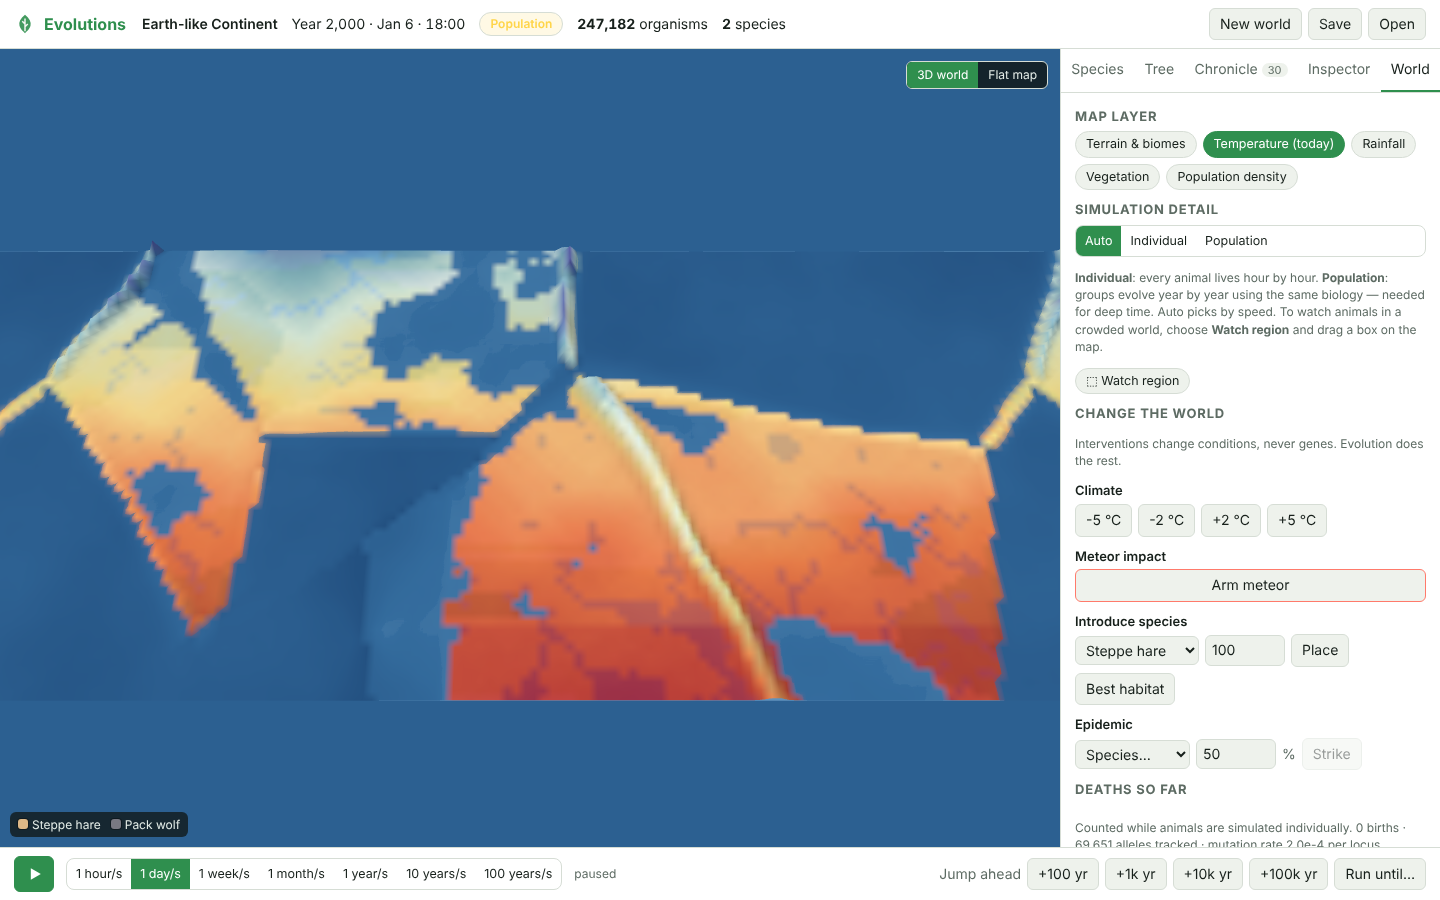
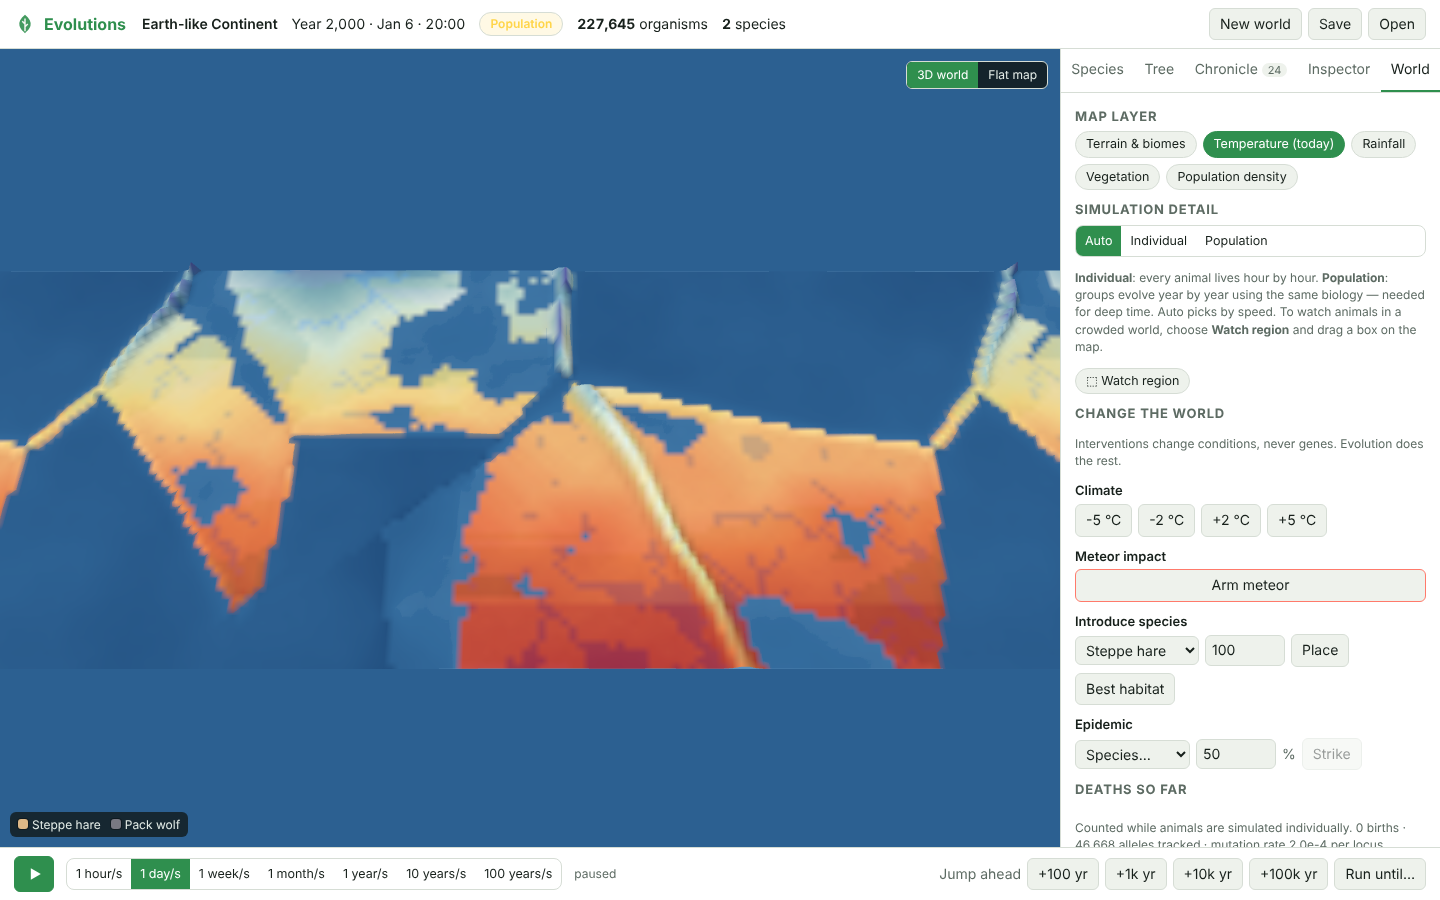
Frame the whole world on load and show detailed animals sooner
The opening camera now searches for the nearest distance at which all
four corners of the world are on screen, and reframes on resize until
the user moves the camera. Before, the east and west ends could fall
outside the view, so founders released near an edge were off screen
(this made the CI smoke test's inspect step fail for some seeds).

- Zooming out can always reach the framed distance.
- Detailed animal bodies from 16 px instead of 28 px.
- Smoke test reports an off-screen animal explicitly.
- Guide screenshots regenerated.

Changed region(s): [[0.0, 0.28, 0.75, 0.7778], [0.75, 0.9333, 0.9375, 0.9644], [0.4062, 0.0, 0.4375, 0.0311]]

diff --git a/app/web/src/render/world3d.ts b/app/web/src/render/world3d.ts
@@ -71,7 +71,7 @@ function simpleAnimalGeometry() {
 }
 
 /** Below this on-screen body length (px) animals use the simple geometry. */
-const DETAIL_PX = 28;
+const DETAIL_PX = 16;
 
 /** Hash an index to an angle so a herd does not all face the same way. */
 const yawOf = (i: number) => (((i * 2654435761) >>> 0) / 4294967296) * Math.PI * 2;
@@ -119,6 +119,10 @@ export class World3D {
   /** Camera x when animals and herds were last laid out (they sit on the nearest copy). */
   private layoutTx = NaN;
   private disposed = false;
+  /** Distance that shows the whole world; zooming out stops a little beyond it. */
+  private fitDistance = 100;
+  /** Until the user moves the camera, resizing reframes the whole world. */
+  private userMoved = false;
 
   constructor(canvas: HTMLCanvasElement) {
     this.renderer = new THREE.WebGLRenderer({ canvas, antialias: true, preserveDrawingBuffer: true });
@@ -399,14 +403,34 @@ export class World3D {
 
   /** Look at the whole world from the south. */
   fit() {
-    const aspect = this.camera.aspect || 1.6;
-    const half = Math.tan(((FOV / 2) * Math.PI) / 180);
-    const span = Math.max(this.h * 0.8, this.w / aspect) * 0.52;
     this.cam.tx = this.w / 2;
     this.cam.ty = this.h / 2;
     this.cam.yaw = 0;
     this.cam.pitch = (62 * Math.PI) / 180;
-    this.cam.distance = Math.max(4, span / half);
+    // The nearest distance at which all four corners of the world are on screen.
+    const corners = [
+      [0, 0],
+      [this.w, 0],
+      [0, this.h],
+      [this.w, this.h],
+    ].map(([x, z]) => new THREE.Vector3(x, 0, z));
+    const fits = (d: number) => {
+      this.cam.distance = d;
+      this.updateCamera();
+      return corners.every((c) => {
+        const v = c.clone().project(this.camera);
+        return Math.abs(v.x) <= 0.96 && Math.abs(v.y) <= 0.96 && v.z < 1;
+      });
+    };
+    let lo = 1;
+    let hi = Math.max(this.w, this.h) * 4;
+    for (let i = 0; i < 30; i++) {
+      const mid = (lo + hi) / 2;
+      if (fits(mid)) hi = mid;
+      else lo = mid;
+    }
+    this.cam.distance = this.fitDistance = Math.max(4, hi);
+    this.userMoved = false;
     this.requestRender();
   }
 
@@ -423,7 +447,8 @@ export class World3D {
 
   zoom(factor: number, toward: THREE.Vector3 | null) {
     const c = this.cam;
-    const maxDist = Math.max(this.w, this.h) * 1.6;
+    this.userMoved = true;
+    const maxDist = Math.max(Math.max(this.w, this.h) * 1.6, this.fitDistance * 1.3);
     const nd = Math.max(1.2, Math.min(maxDist, c.distance * factor));
     const f = 1 - nd / c.distance;
     if (toward) {
@@ -435,12 +460,14 @@ export class World3D {
   }
 
   pan(dx: number, dz: number) {
+    this.userMoved = true;
     this.cam.tx += dx;
     this.cam.ty += dz;
     return this.clampCamera();
   }
 
   rotate(dyaw: number, dpitch: number) {
+    this.userMoved = true;
     this.cam.yaw += dyaw;
     this.cam.pitch = Math.max(MIN_PITCH, Math.min(MAX_PITCH, this.cam.pitch + dpitch));
     this.requestRender();
@@ -516,6 +543,7 @@ export class World3D {
     if (cw === 0 || ch === 0) return;
     this.renderer.setSize(cw, ch, false);
     this.camera.aspect = cw / ch;
+    if (!this.userMoved) this.fit();
     this.lastSize = -1;
     this.requestRender();
   }

diff --git a/docs/3D_WORLD_SYSTEM_DESIGN.md b/docs/3D_WORLD_SYSTEM_DESIGN.md
@@ -65,7 +65,7 @@ Rendering is on demand: nothing redraws while the simulation is paused and the c
 | Terrain (×3 copies) | `Mesh` sharing one indexed `BufferGeometry` + `MeshLambertMaterial` with the layer `CanvasTexture` | Copies at x = −w, 0, +w give a seamless east–west wrap. One vertex per tile centre plus a wrap column. |
 | Sea | `Mesh` (plane), translucent, no depth write | At y = −0.02 over three world widths. |
 | Open sea | Two `Mesh` strips (children of the sea) | North and south of the world, at the mean ocean depth and colour, so the edges disappear. |
-| Individuals | `InstancedMesh` (detailed or simple body) | One instance per animal; colour per species; crouched when resting; yaw hashed from index. Geometry switches to the 36-triangle body when a figure is under 28 px long. |
+| Individuals | `InstancedMesh` (detailed or simple body) | One instance per animal; colour per species; crouched when resting; yaw hashed from index. Geometry switches to the 36-triangle body when a figure is under 16 px long. |
 | Herds | `InstancedMesh` (simple body, opacity 0.8) | 1–4 figures per occupied tile, in the dominant species' colour; skipped inside the watched region. |
 | Density columns | Same mesh slot, unit box | Height and heat-ramp colour from log density. Replaces herds on the density layer. |
 | Watched region | `LineSegments` (box edges), white | |
@@ -89,7 +89,7 @@ Animals, herds and the selection ring stand at `heightAt`, so they sit on the te
 ```text
 unitsPerPixel = 2 · distance · tan(FOV/2) / canvasHeight
 bodySize      = clamp(9 · unitsPerPixel, 0.12, 4)    (≥ ~9 px on screen)
-detailed body when bodySize / unitsPerPixel ≥ 28 px, else simple body
+detailed body when bodySize / unitsPerPixel ≥ 16 px, else simple body
 herds always use the simple body
 ```
 

diff --git a/docs/3D_WORLD_PLAN.md b/docs/3D_WORLD_PLAN.md
@@ -55,7 +55,7 @@ The engine does not change. The 3D world is a new view over the same frame data 
 | # | Task | Result |
 |---|---|---|
 | 4.1 | Reuse the herd instanced mesh between frames instead of reallocating it. | Population mode no longer rebuilds GPU buffers every frame. |
-| 4.1b | Level of detail: a 36-triangle body for herds and for animals shorter than 28 px on screen (the detailed body is ~290 triangles). | Population mode drew tens of millions of triangles per frame; it now draws about an eighth of that, which keeps the page responsive on weak GPUs. |
+| 4.1b | Level of detail: a 36-triangle body for herds and for animals shorter than 16 px on screen (the detailed body is ~290 triangles). | Population mode drew tens of millions of triangles per frame; it now draws about an eighth of that, which keeps the page responsive on weak GPUs. |
 | 4.2 | End-to-end smoke test passes with the 3D view as the default. | |
 | 4.3 | User guide and README describe the 3D world, with screenshots. | |
 
